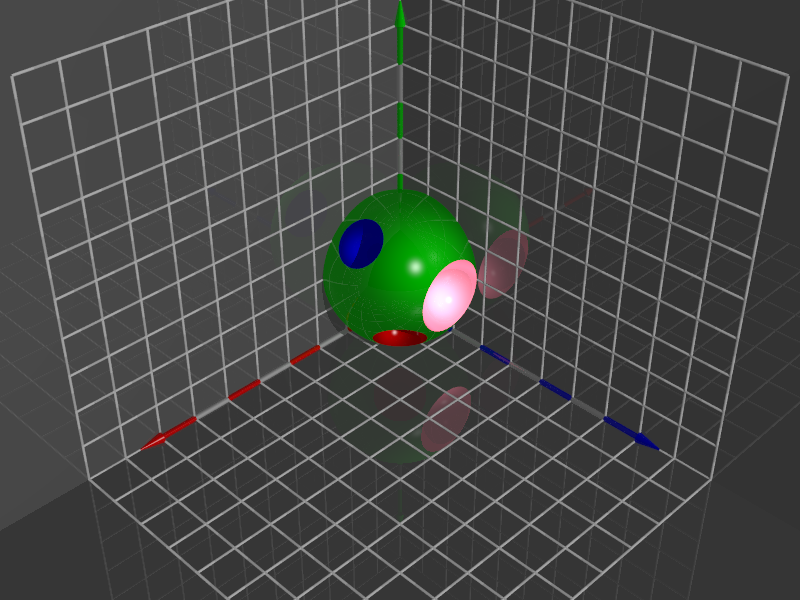
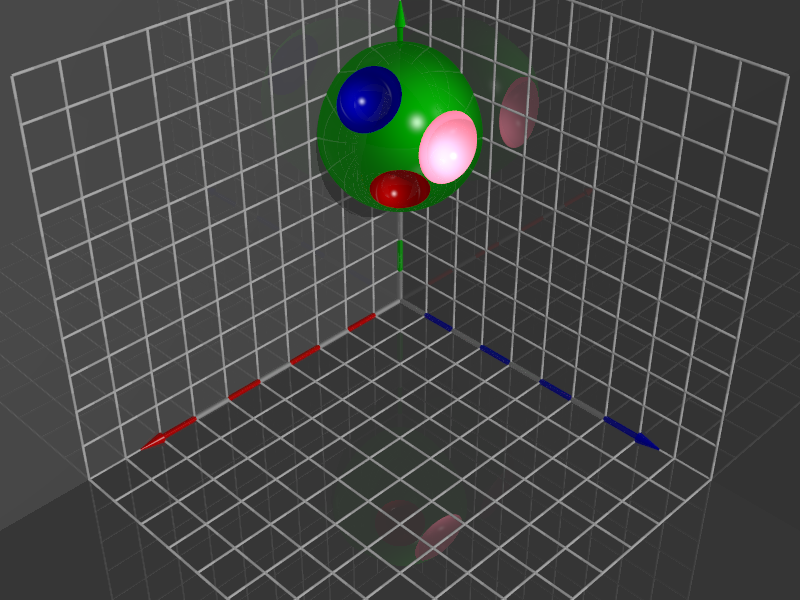
CSG transformation

Changed region(s): [[0.375, 0.06, 0.6875, 0.6], [0.5, 0.63, 0.5938, 0.75], [0.5, 0.84, 0.5938, 0.93]]

diff --git a/pov.m b/pov.m
@@ -315,32 +315,50 @@ classdef pov < handle
         function union_begin(o)
             fprintf(o.fh,'union {\n');
         end
-        function union_end(o)
-            fprintf(o.fh,'}\n\n');
+        function union_end(o, varargin)
+            o.csg_end(varargin{:});
         end 
 
         % CSG:Difference
         function difference_begin(o)
             fprintf(o.fh,'difference {\n');
         end
-        function difference_end(o)
-            fprintf(o.fh,'}\n\n');
+        function difference_end(o, varargin)
+            o.csg_end(varargin{:});
         end 
 
         % CSG:Intersection
         function intersection_begin(o)
             fprintf(o.fh,'intersection {\n');
         end
-        function intersection_end(o)
-            fprintf(o.fh,'}\n\n');
+        function intersection_end(o, varargin)
+            o.csg_end(varargin{:});
         end
 
         % CSG:Merge
         function merge_begin(o)
             fprintf(o.fh,'merge {\n');
         end
-        function merge_end(o)
-            fprintf(o.fh,'}\n\n');
+        function merge_end(o, varargin)
+            o.csg_end(varargin{:});
+        end
+
+        % Common closing tag for all CSG functions
+        function csg_end(o, varargin)
+            % Parse
+            p = inputParser;
+            addParameter(p,'scale',     [1 1 1], @o.check_vector3);
+            addParameter(p,'rotate',    [0 0 0], @o.check_vector3);
+            addParameter(p,'translate', [0 0 0], @o.check_vector3);
+            parse(p, varargin{:});
+
+            scale     = p.Results.scale;
+            rotate    = p.Results.rotate;
+            translate = p.Results.translate;
+
+            % Write
+            fprintf(o.fh,['    scale<%0.2f, %0.2f, %0.2f> rotate<%0.2f, %0.2f, %0.2f> translate<%0.2f, %0.2f, %0.2f>}\n\n'],...
+                          scale(1), scale(2), scale(3), rotate(1), rotate(2), rotate(3), translate(1), translate(2), translate(3));
         end
 
         % Render

diff --git a/examples/spheres_csg.m b/examples/spheres_csg.m
@@ -90,8 +90,8 @@ pov.difference_begin();
           pov.sphere('position', [2 1 2], 'radius', 0.7, 'texture', tex_red,  'scale', [1 1 1], 'rotate', [0 0 0], 'translate', [0 0 0]);
           pov.sphere('position', [2 3 1], 'radius', 0.8, 'texture', tex_blue, 'scale', [1 1 1], 'rotate', [0 0 0], 'translate', [0 0 0]);
           pov.sphere('position', [1 2 3], 'radius', 1.0, 'texture', tex_pink, 'scale', [1 1 1], 'rotate', [0 0 0], 'translate', [0 0 0]);
-     pov.union_end();
-pov.difference_end();
+     pov.union_end('translate', [0.3 0.3 0.3]);
+pov.difference_end('scale', [1 1 1], 'rotate', [0 0 0], 'translate', [0 4 0]);
 
 pov.scene_end();
 pov.render();
